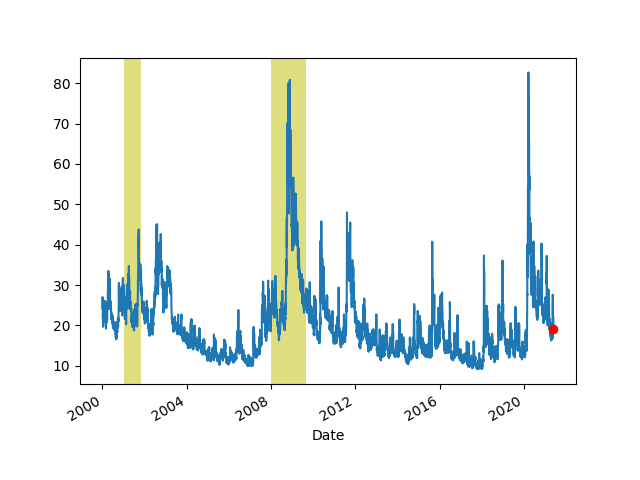
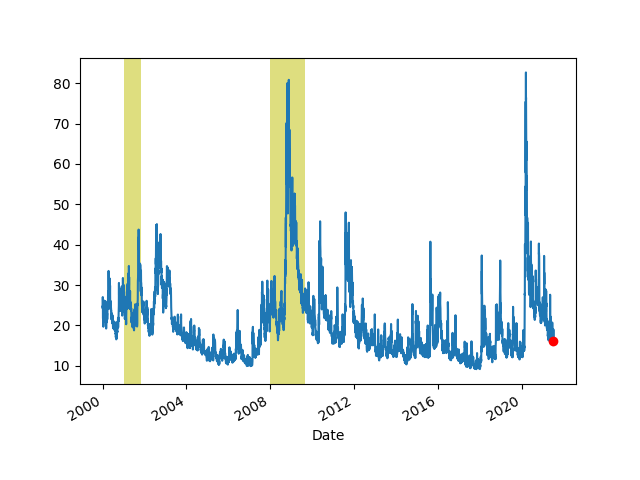
-

diff --git a/en/2019/05/stats.md b/en/2019/05/stats.md
@@ -397,14 +397,20 @@ DATE
 <a name="dollar"></a>
 
 ```python
-import pandas as pd, datetime
-from pandas_datareader import data
+import pandas as pd, datetime, time as timelib
+import urllib.request as urllib2, io
 
-import pandas_datareader.data as web
-today = datetime.datetime.now()
-start=datetime.datetime(1980, 1, 1)
-end=datetime.datetime(today.year, today.month, today.day)
-df = web.DataReader("DX-Y.NYB", 'yahoo', start, end)['Adj Close']
+end = datetime.datetime.now()
+start = datetime.datetime(1980, 1, 1)
+start = int(timelib.mktime(start.timetuple()))
+end = int(timelib.mktime(end.timetuple()))
+
+base_fin_url = "https://query1.finance.yahoo.com/v7/finance/download"
+url = base_fin_url + "/DX-Y.NYB?period1=" + str(start) + "&period2=" + str(end) + "&interval=1d&events=history&includeAdjustedClose=true"
+r = urllib2.urlopen(url).read()
+file = io.BytesIO(r)
+df = pd.read_csv(file,index_col='Date',parse_dates=True)['Adj Close']
+
 print (df.tail(4))
 m,s = df.mean(),df.std()
 print (np.array([m-s,m+s]).T)
@@ -415,12 +421,12 @@ plt.savefig('dollar.png')
 
 ```text
 Date
-2021-05-25    89.639999
-2021-05-26    90.040001
-2021-05-27    89.970001
-2021-05-28    90.029999
+2021-07-06    92.550003
+2021-07-07    92.639999
+2021-07-08    92.360001
+2021-07-09    92.129997
 Name: Adj Close, dtype: float64
-[ 80.66856982 111.37755152]
+[ 80.67397112 111.34537021]
 ```
 
 ![](dollar.png)
@@ -647,13 +653,17 @@ DATE
 ## VIX
 
 ```python
-import pandas as pd, datetime
-import pandas_datareader.data as web
-
-today = datetime.datetime.now()
+import pandas as pd, datetime, time as timelib
+import urllib.request as urllib2, io
+end = datetime.datetime.now()
 start=datetime.datetime(2000, 1, 1)
-end=datetime.datetime(today.year, today.month, today.day)
-df = web.DataReader("^VIX", 'yahoo', start, end)['Adj Close']
+start = int(timelib.mktime(start.timetuple()))
+end = int(timelib.mktime(end.timetuple()))
+base_fin_url = "https://query1.finance.yahoo.com/v7/finance/download"
+url = base_fin_url + "/^VIX?period1=" + str(start) + "&period2=" + str(end) + "&interval=1d&events=history&includeAdjustedClose=true"
+r = urllib2.urlopen(url).read()
+file = io.BytesIO(r)
+df = pd.read_csv(file,index_col='Date',parse_dates=True)['Adj Close']
 df.plot()
 plt.axvspan('01-03-2001', '27-10-2001', color='y', alpha=0.5, lw=0)
 plt.axvspan('22-12-2007', '09-05-2009', color='y', alpha=0.5, lw=0)
@@ -664,13 +674,13 @@ plt.savefig('vix.png')
 
 ```text
 Date
-2021-05-14    18.809999
-2021-05-17    19.719999
-2021-05-18    21.340000
-2021-05-19    22.180000
-2021-05-20    20.670000
-2021-05-21    20.150000
-2021-05-24    18.980000
+2021-06-30    15.830000
+2021-07-01    15.480000
+2021-07-02    15.070000
+2021-07-06    16.440001
+2021-07-07    16.200001
+2021-07-08    19.000000
+2021-07-09    16.180000
 Name: Adj Close, dtype: float64
 ```
 
@@ -683,12 +693,19 @@ Name: Adj Close, dtype: float64
 Futures, Continuous Contract, Front Month
 
 ```python
-import pandas_datareader.data as web, datetime
-today = datetime.datetime.now()
-start=datetime.datetime(1980, 1, 1)
-end=datetime.datetime(today.year, today.month, today.day)
-df = web.DataReader("CL=F", 'yahoo', start, end)
-df = df['Close']
+import pandas as pd, datetime, time as timelib
+import urllib.request as urllib2, io
+
+end = datetime.datetime.now()
+start = datetime.datetime(1980, 1, 1)
+start = int(timelib.mktime(start.timetuple()))
+end = int(timelib.mktime(end.timetuple()))
+base_fin_url = "https://query1.finance.yahoo.com/v7/finance/download"
+url = base_fin_url + "/CL=F?period1=" + str(start) + "&period2=" + str(end) + "&interval=1d&events=history&includeAdjustedClose=true"
+r = urllib2.urlopen(url).read()
+file = io.BytesIO(r)
+df = pd.read_csv(file,index_col='Date',parse_dates=True)['Close']
+
 print (df.tail(5))
 plt.plot(df.tail(1).index, df.tail(1),'ro')
 df.plot()
@@ -699,11 +716,11 @@ plt.savefig('oil.png')
 
 ```text
 Date
-2021-05-18    65.489998
-2021-05-19    63.360001
-2021-05-20    62.049999
-2021-05-21    63.580002
-2021-05-24    65.550003
+2021-07-02    75.160004
+2021-07-06    73.370003
+2021-07-07    72.199997
+2021-07-08    72.940002
+2021-07-09    74.559998
 Name: Close, dtype: float64
 ```
 
